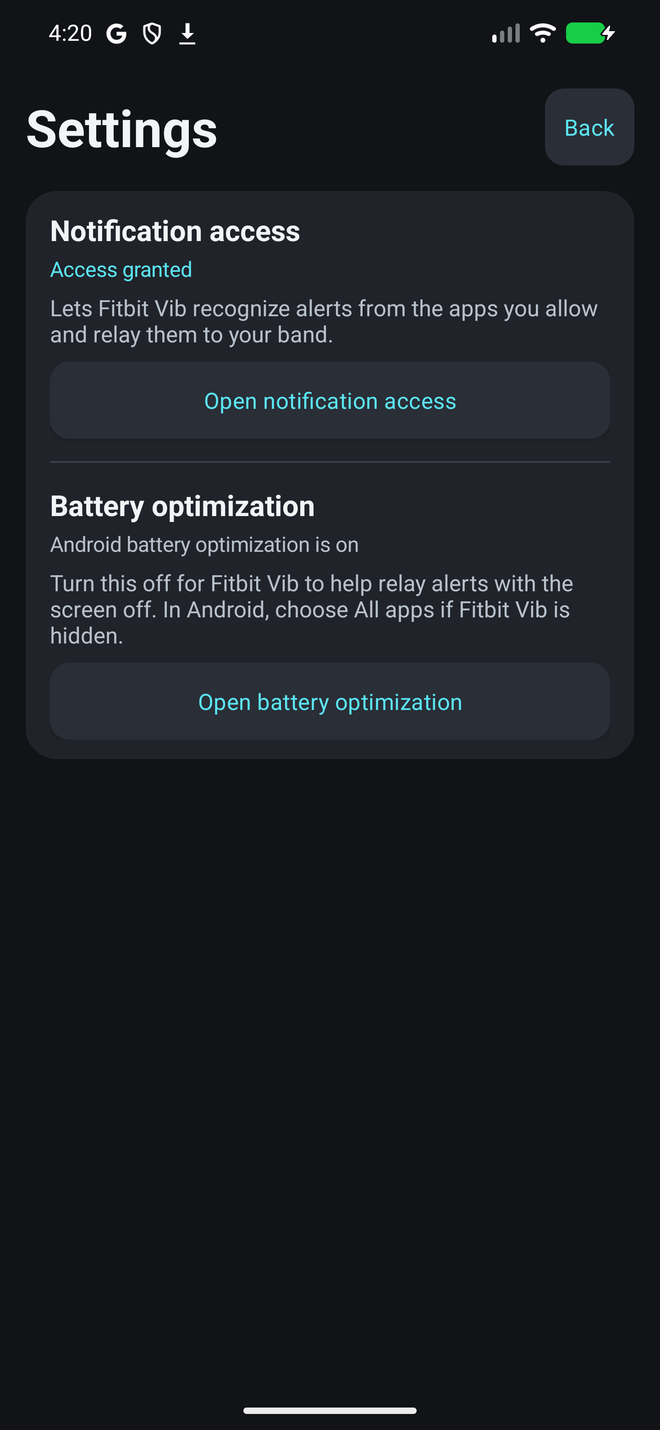
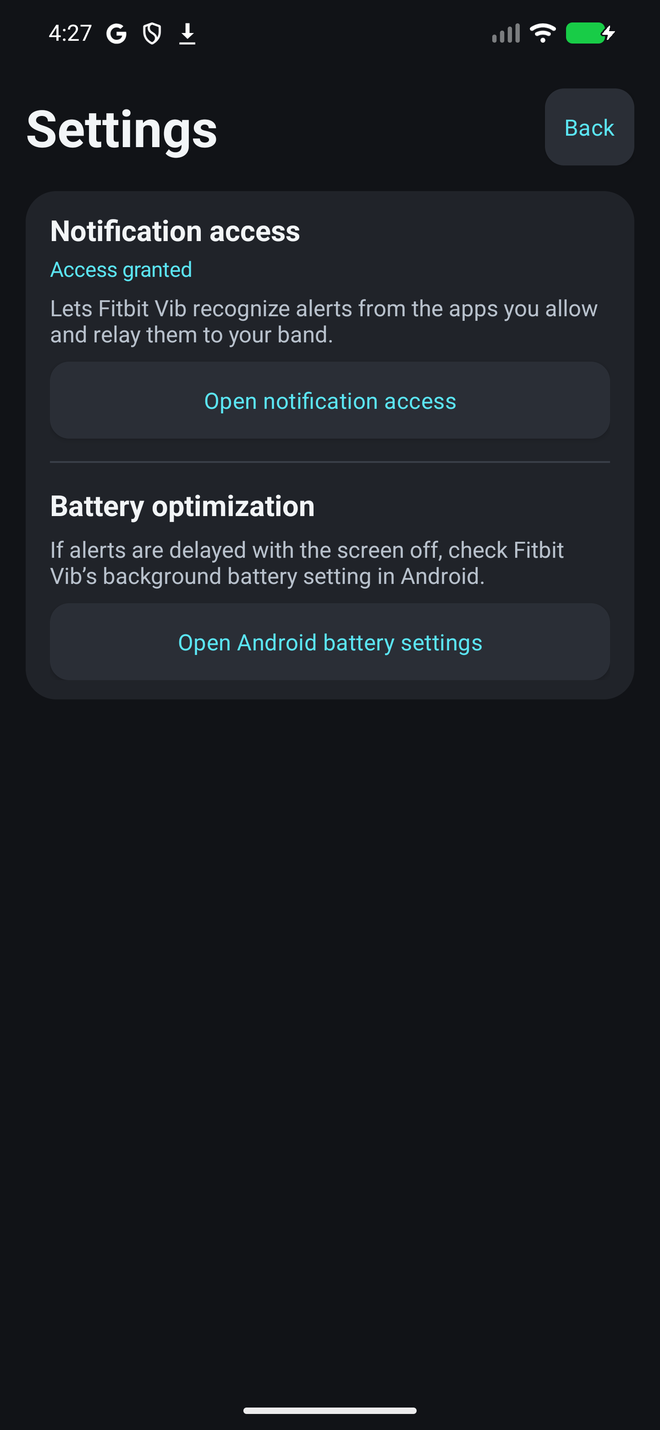
Fix the Android battery settings shortcut in 0.3.2

Changed region(s): [[0.0606, 0.3692, 0.9394, 0.5231], [0.1212, 0.0, 0.1515, 0.0308]]

diff --git a/app/src/main/kotlin/dev/wristrelay/BackgroundSettings.kt b/app/src/main/kotlin/dev/wristrelay/BackgroundSettings.kt
@@ -3,24 +3,18 @@ package dev.wristrelay
 import android.app.Activity
 import android.content.ActivityNotFoundException
 import android.content.ComponentName
-import android.content.Context
 import android.content.Intent
 import android.net.Uri
 import android.os.Bundle
-import android.os.PowerManager
 import android.provider.Settings
 import android.view.View
 import android.widget.LinearLayout
 import android.widget.Toast
 
-internal fun batteryOptimizationDisabled(context: Context) =
-    context.getSystemService(PowerManager::class.java).isIgnoringBatteryOptimizations(context.packageName)
-
 internal class BackgroundOptions(private val activity: Activity, private val ui: DarkInstrument) {
     private val notificationStatus = ui.label("", 13, ui.muted)
-    private val batteryStatus = ui.label("", 13, ui.muted)
     private val notificationAction = ui.action("Open notification access") { openNotificationAccess() }
-    private val batteryAction = ui.action("Open battery optimization") { openBatterySettings() }
+    private val batteryAction = ui.action("Open Android battery settings") { openBatterySettings() }
 
     val view = ui.column().apply {
         addView(ui.label("Notification access", 18, bold = true).asHeading())
@@ -30,8 +24,7 @@ internal class BackgroundOptions(private val activity: Activity, private val ui:
         addView(View(activity), LinearLayout.LayoutParams(1, ui.dp(14)))
         ui.addDivider(this)
         addView(ui.label("Battery optimization", 18, bold = true).asHeading(), ui.stacked(14))
-        addView(batteryStatus, ui.stacked(3))
-        addView(ui.label("Turn this off for Fitbit Vib to help relay alerts with the screen off. In Android, choose All apps if Fitbit Vib is hidden.", 14, ui.muted), ui.stacked(6))
+        addView(ui.label("If alerts are delayed with the screen off, check Fitbit Vib’s background battery setting in Android.", 14, ui.muted), ui.stacked(6))
         addView(batteryAction, ui.stacked(8))
     }
 
@@ -39,9 +32,6 @@ internal class BackgroundOptions(private val activity: Activity, private val ui:
         val notificationGranted = Preferences.hasAccess(activity)
         notificationStatus.text = if (notificationGranted) "Access granted" else "Access required"
         notificationStatus.setTextColor(if (notificationGranted) ui.cyan else ui.muted)
-        val unrestricted = batteryOptimizationDisabled(activity)
-        batteryStatus.text = if (unrestricted) "Optimization off for Fitbit Vib" else "Android battery optimization is on"
-        batteryStatus.setTextColor(if (unrestricted) ui.cyan else ui.muted)
     }
 
     private fun openNotificationAccess() {

diff --git a/app/src/main/kotlin/dev/wristrelay/MainActivity.kt b/app/src/main/kotlin/dev/wristrelay/MainActivity.kt
@@ -99,10 +99,6 @@ class MainActivity : Activity() {
             return
         }
         if (Preferences.store(this).getBoolean("background_setup_seen", false)) return
-        if (Preferences.hasAccess(this) && batteryOptimizationDisabled(this)) {
-            finishBackgroundSetup()
-            return
-        }
         val options = BackgroundOptions(this, ui)
         setupOptions = options
         options.refresh()

diff --git a/README.md b/README.md
@@ -29,7 +29,7 @@ You need Android **12L (API 32) or later**, Bluetooth, and **one Fitbit Air** al
 1. Download the signed APK from [GitHub Releases](https://github.com/error0327/fitbit-vib/releases/latest) and open it on Android.
 2. Open Fitbit Vib and allow **Nearby devices**.
 3. In the setup popup or **Settings**, enable **Notification access**. If Android restricts listener access for a sideloaded app, open Fitbit Vib's Android **App info** and check the overflow menu for **Allow restricted settings**.
-4. In **Settings**, optionally turn off **Battery optimization** for Fitbit Vib to reduce background delays.
+4. If background alerts are delayed, tap **Open Android battery settings** in the setup popup or in **Settings**. Android shows and manages the current setting. Find Fitbit Vib in the system list. Some phones put the controls under the app’s **App info**.
 5. Tap **Send test vibration**, then switch on the apps you want under **Allowed apps**. Use **Active now** to review apps with current notifications and change their switches.
 
 The allowlist starts empty. **Relay notifications** pauses automatic alerts while keeping your app choices. **Allow all** enables every app in the regular list, including apps outside the active search.
